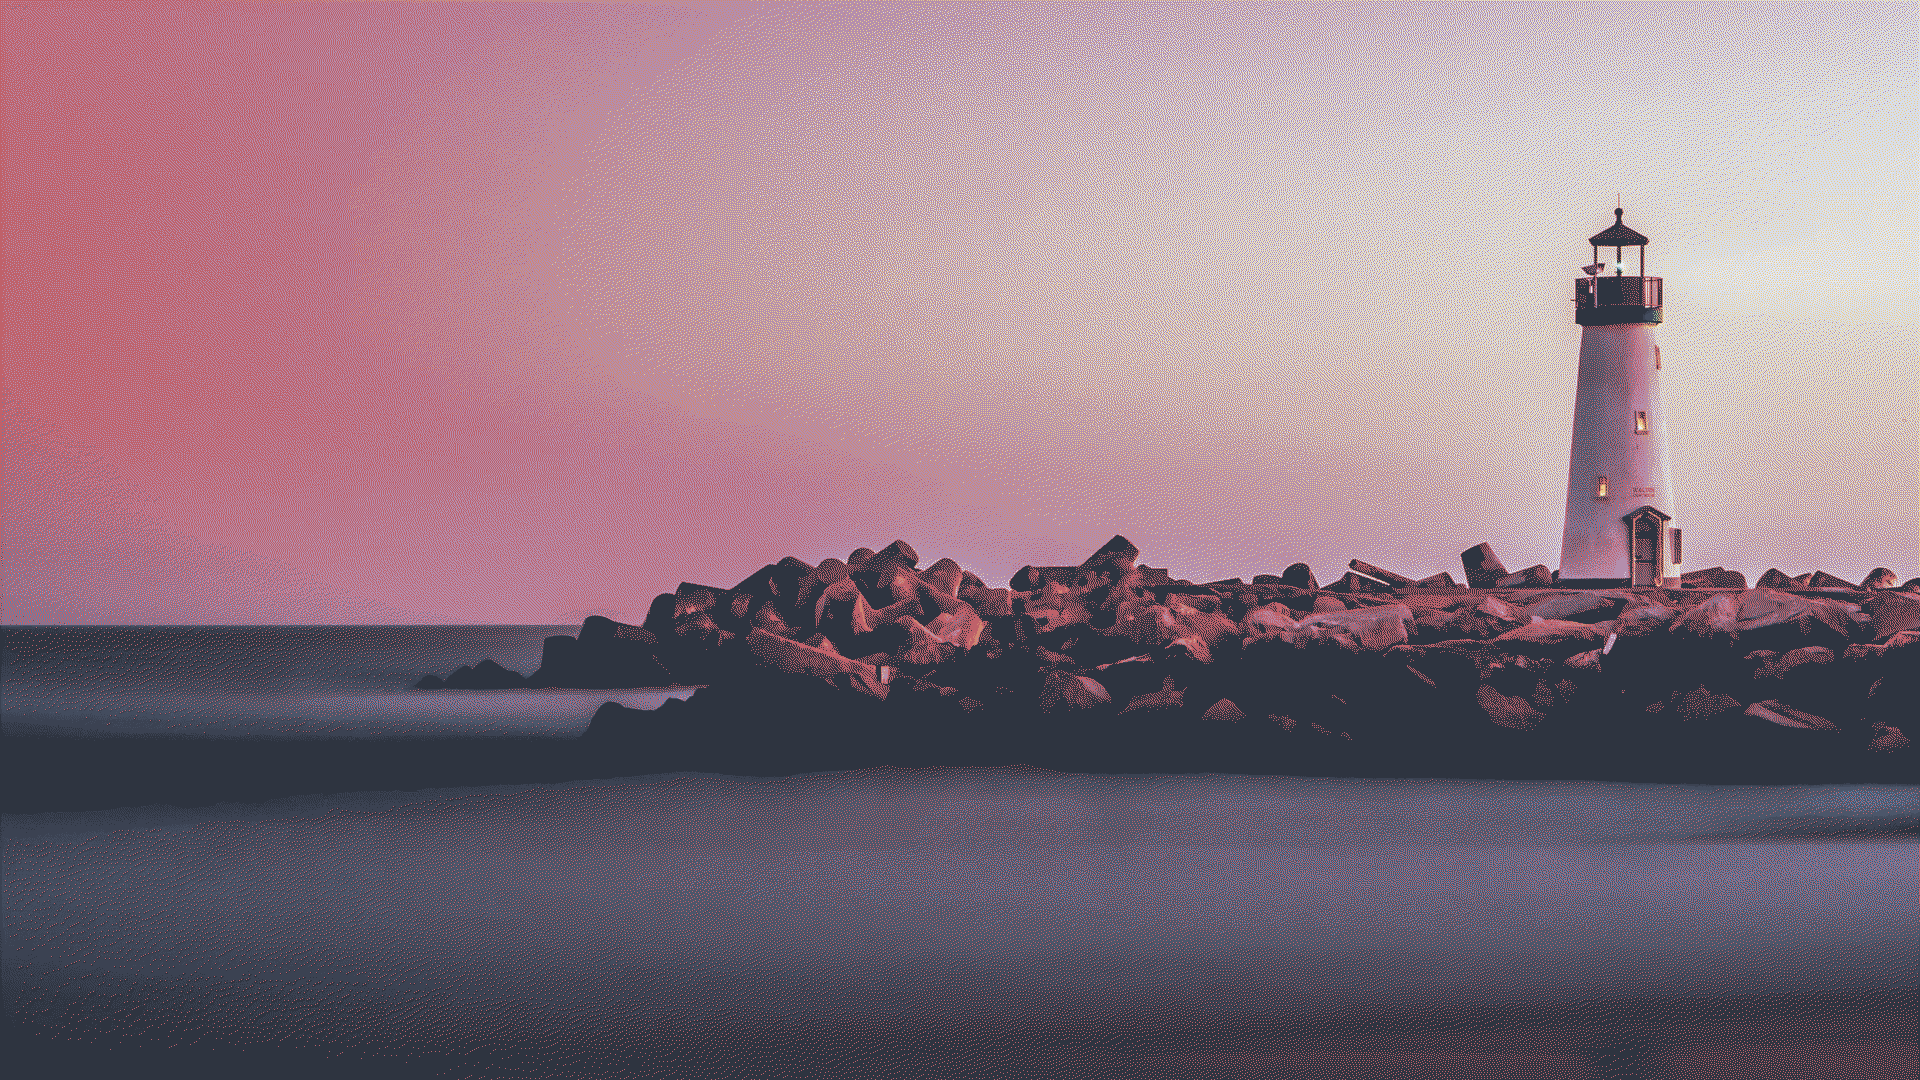
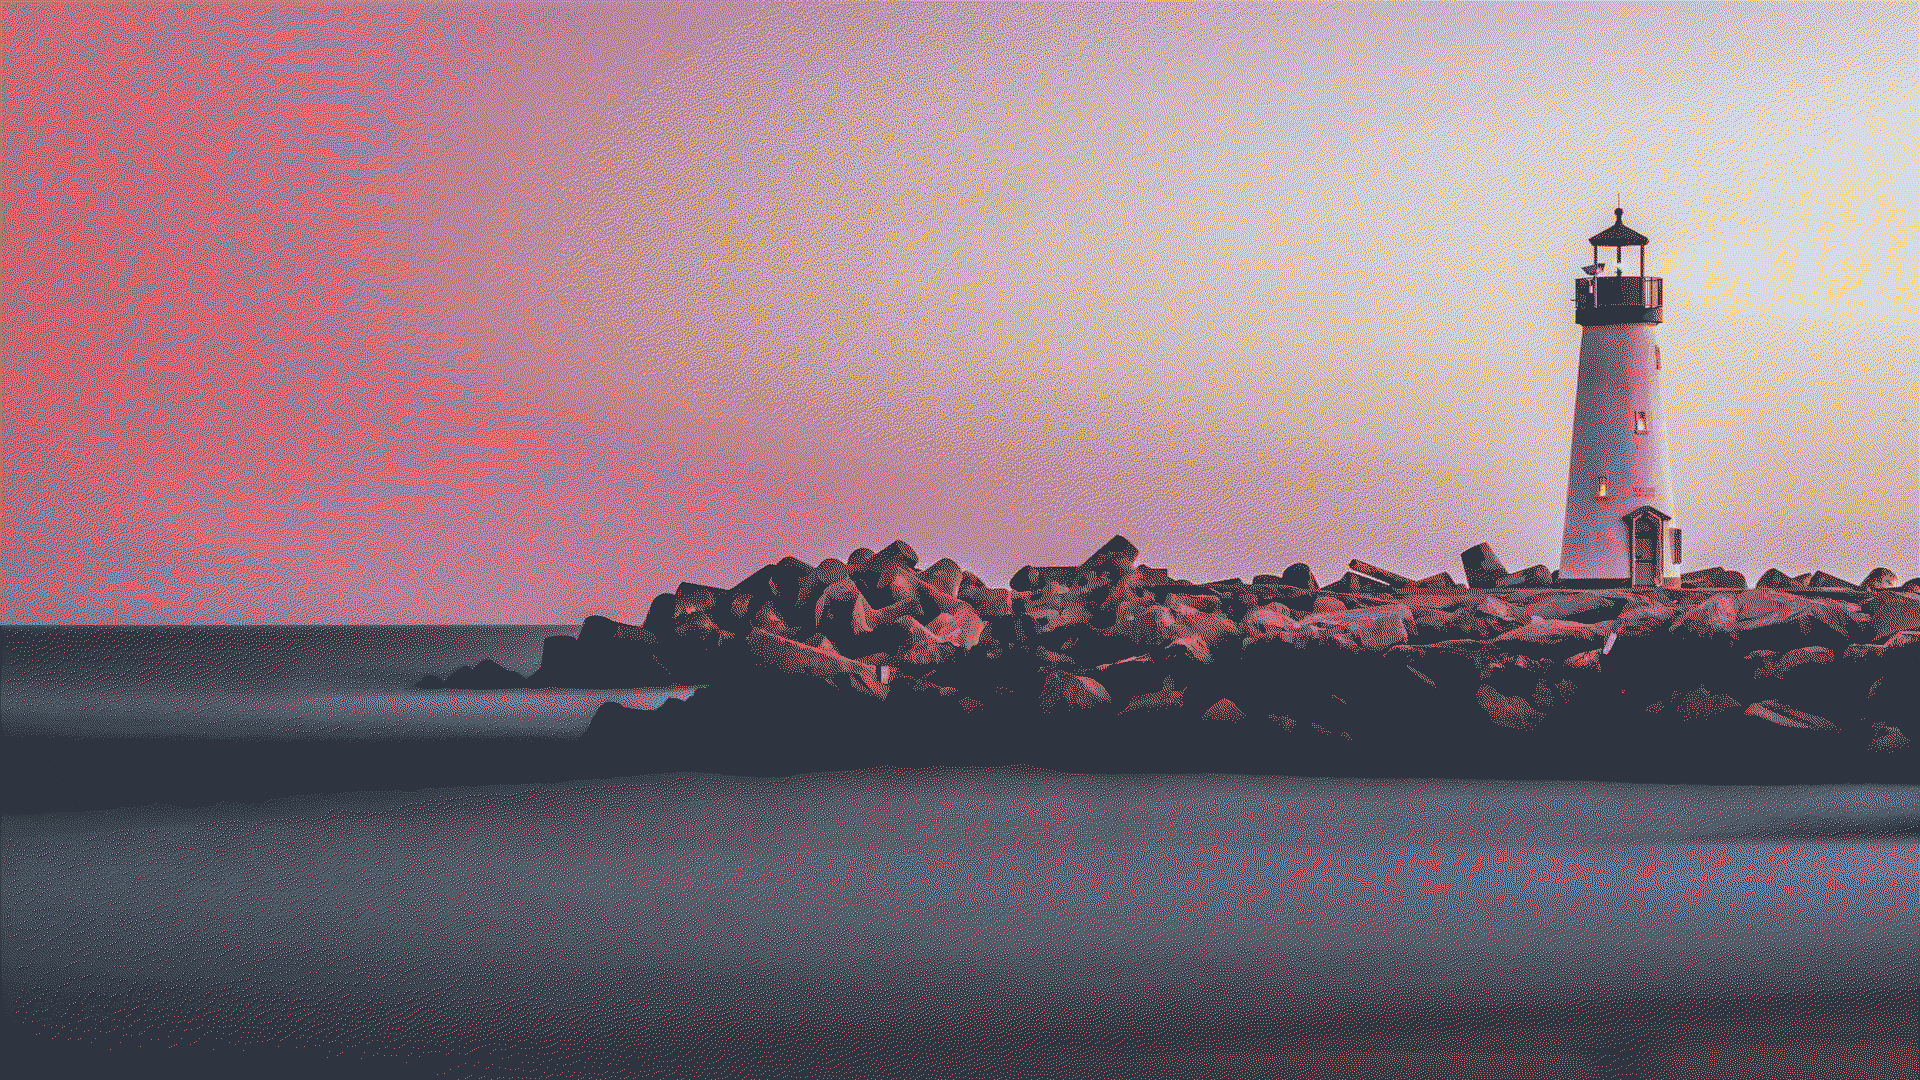
Add files via upload

diff --git a/qtile/config.py b/qtile/config.py
@@ -122,15 +122,15 @@ for i in groups:
 ##############
 
 colors = [
-    "#2a303c",  # Background, 0
-    "#bfc5d0",  # Foreground, 1
-    "#3b4252",  # Black, 2
-    "#d57780",  # Red, 3
-    "#a3be8c",  # Green, 4
-    "#ecbe8b",  # Yellow, 5
-    "#81a1c1",  # Blue, 6
-    "#b48ead",  # Magenta, 7
-    "#97b7d7",  # Cyan, 8
+    "#192330",  # Background, 0
+    "#c0c8c5",  # Foreground, 1
+    "#252f3c",  # Lighter Background, 2
+    "#e26886",  # Red, 3
+    "#8ebaa4",  # Green, 4
+    "#dbc074",  # Yellow, 5
+    "#86abdc",  # Blue, 6
+    "#9d79d6",  # Magenta, 7
+    "#7ad4d6",  # Cyan, 8
 ]
 
 ###############
@@ -157,13 +157,19 @@ widget_defaults = dict(
 extension_defaults = widget_defaults.copy()
 
 decor = {
-    "decorations": [RectDecoration(radius=12, filled=True, colour=colors[2])],
+    "decorations": [
+        RectDecoration(
+            radius=12,
+            filled=True,
+            colour=colors[2],
+        )
+    ],
 }
 
 
 screens = [
     Screen(
-        bottom=bar.Bar(
+        top=bar.Bar(
             [
                 widget.TextBox(
                     text="",
@@ -255,8 +261,8 @@ screens = [
                 ),
                 widget.Spacer(length=8),
                 widget.Volume(
-                    unmute_format=" {volume}/100",
-                    mute_format=" 0/100",
+                    unmute_format=" {volume}",
+                    mute_format=" 0",
                     foreground=colors[8],
                     **decor,
                 ),
